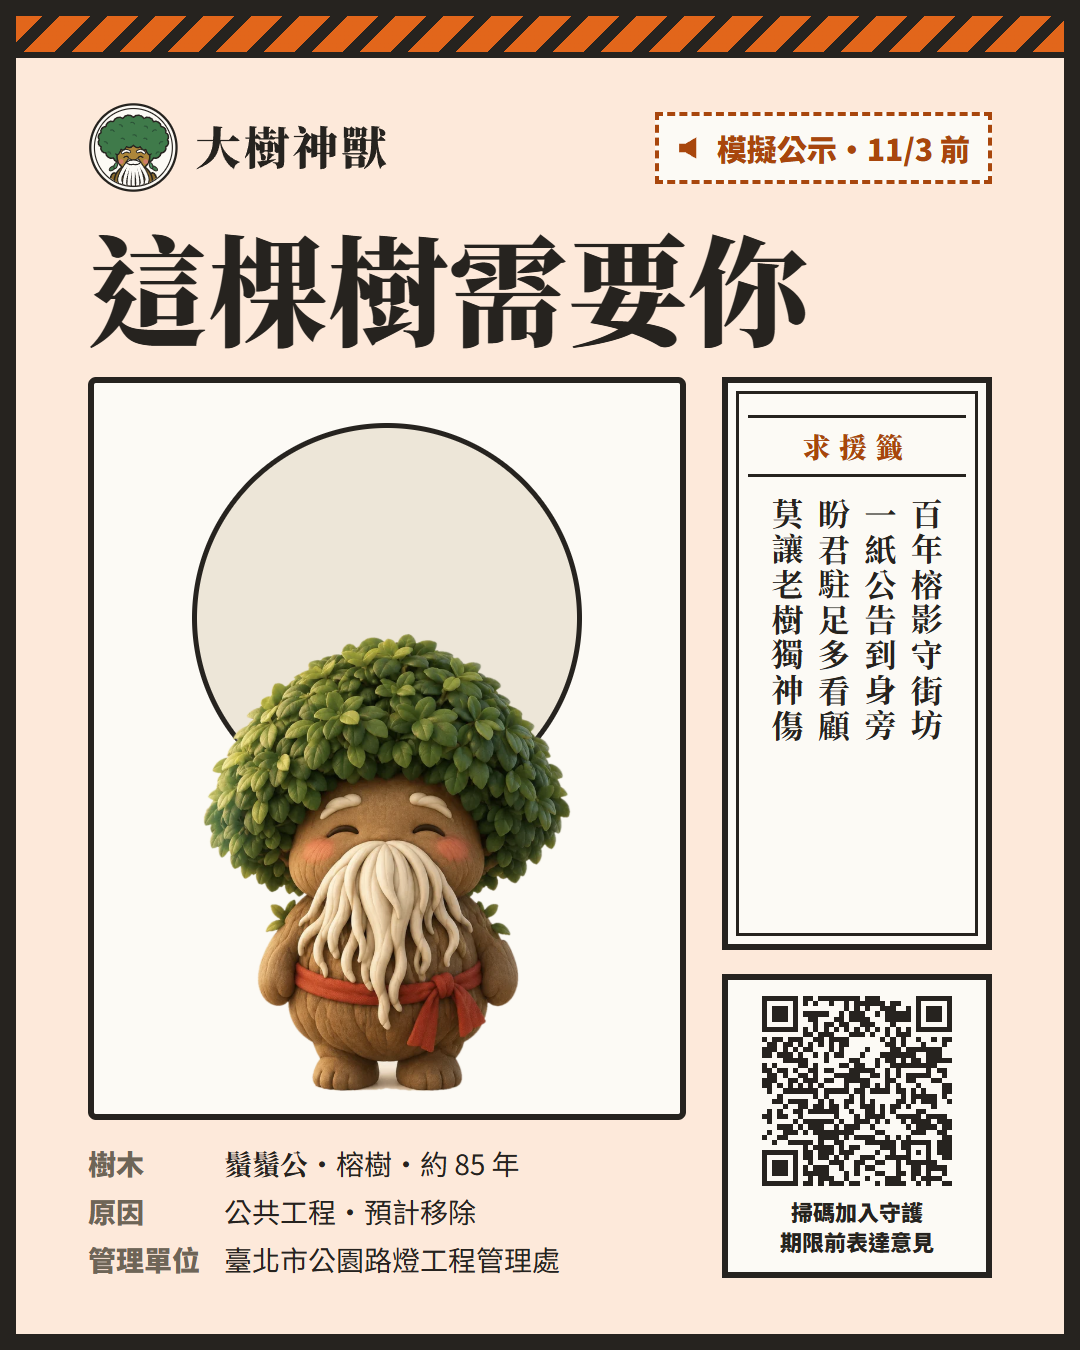
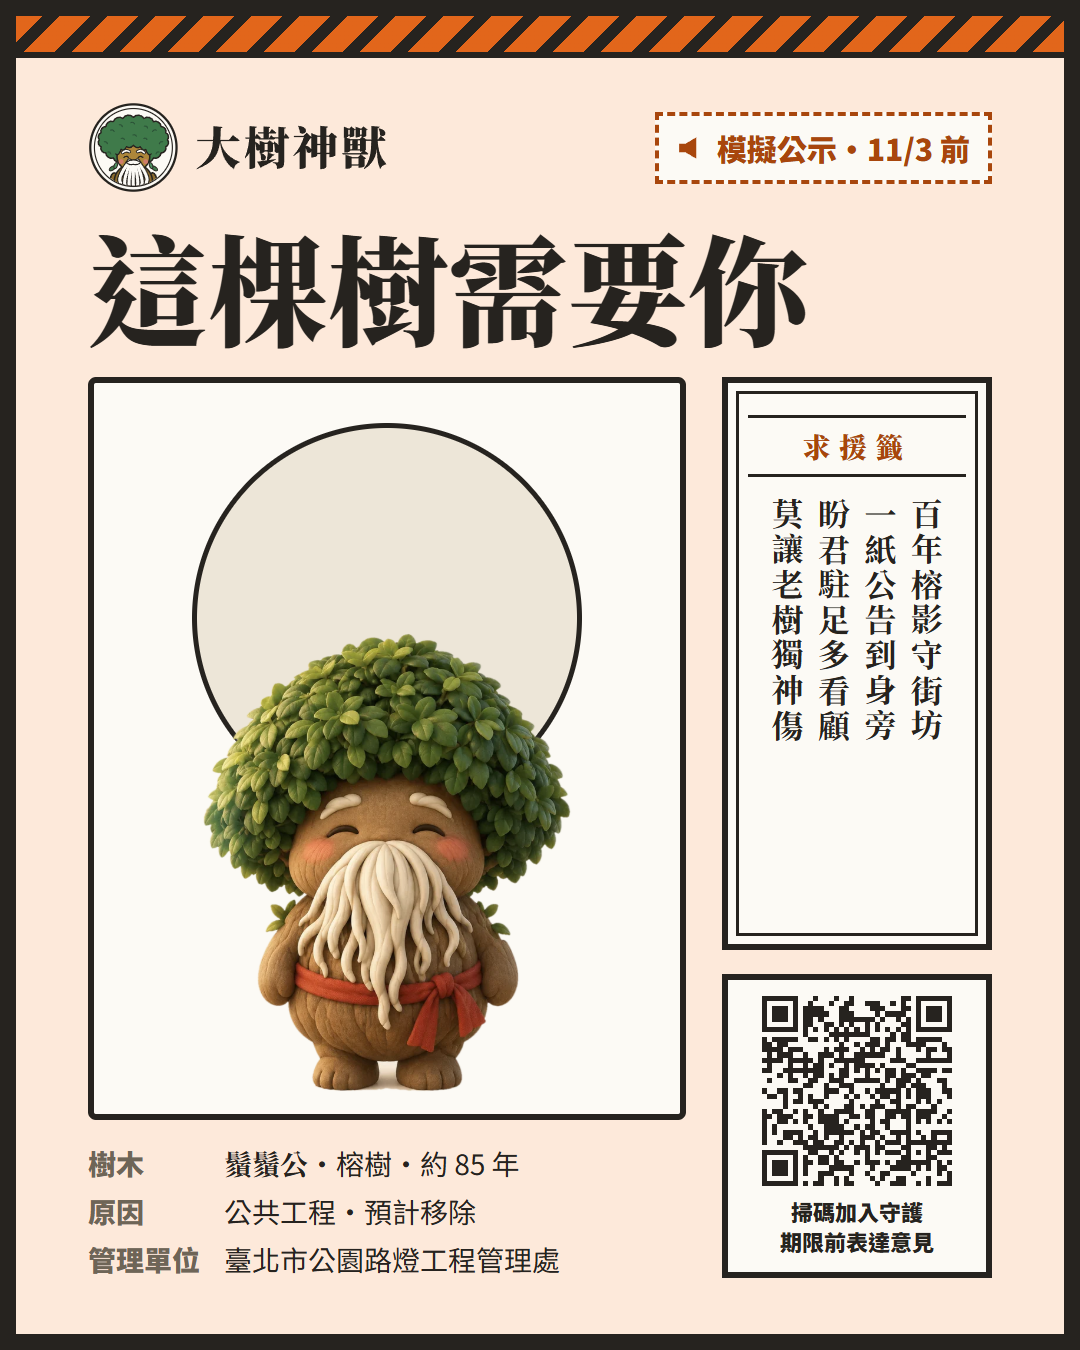
分享連結、OG 預覽、QR code 改用 Cloudflare 網址
原本寫的是 GitHub Pages 的舊網址，改成 https://2026-debugwithpuma.tree-god.workers.dev/ 。
求援籤上的 QR code 重新截圖；Demo 樹牌 QR code（demo/qrcodes.html）也改連新網址。

Changed region(s): [[0.7028, 0.7156, 0.8861, 0.9022]]

diff --git a/about.html b/about.html
@@ -10,9 +10,9 @@
 <meta property="og:type" content="website">
 <meta property="og:title" content="關於大樹神獸｜讓每棵樹都有一群守護祂的鄰居">
 <meta property="og:description" content="你家門口的樹不見了，你多久會發現？AI 方舟計畫在市政 debug 松做的守護行道樹小遊戲。">
-<meta property="og:url" content="https://innerwork-saori.github.io/2026-debugWithPuma/about.html">
+<meta property="og:url" content="https://2026-debugwithpuma.tree-god.workers.dev/about.html">
 <!-- TODO：F9 的 OG 圖（1200×630）做好後換掉 -->
-<meta property="og:image" content="https://innerwork-saori.github.io/2026-debugWithPuma/design-system/assets/logos/app-icons/icon-512.png">
+<meta property="og:image" content="https://2026-debugwithpuma.tree-god.workers.dev/design-system/assets/logos/app-icons/icon-512.png">
 <meta name="twitter:card" content="summary">
 <link rel="manifest" href="manifest.json">
 <link rel="icon" type="image/svg+xml" href="design-system/assets/logos/logo-emblem.svg">

diff --git a/t/JJ0205003001.html b/t/JJ0205003001.html
@@ -10,8 +10,8 @@
 <meta property="og:site_name" content="大樹神獸">
 <meta property="og:title" content="我在守護欒四季｜大樹神獸">
 <meta property="og:description" content="中央藝文公園的臺灣欒樹「欒四季」，已經有 36 位鄰居守護祂。一起來當祂的鄰居！（守護人數為模擬資料）">
-<meta property="og:url" content="https://innerwork-saori.github.io/2026-debugWithPuma/t/JJ0205003001.html">
-<meta property="og:image" content="https://innerwork-saori.github.io/2026-debugWithPuma/design-system/assets/logos/app-icons/icon-512.png">
+<meta property="og:url" content="https://2026-debugwithpuma.tree-god.workers.dev/t/JJ0205003001.html">
+<meta property="og:image" content="https://2026-debugwithpuma.tree-god.workers.dev/design-system/assets/logos/app-icons/icon-512.png">
 <meta property="og:image:width" content="512">
 <meta property="og:image:height" content="512">
 <meta name="twitter:card" content="summary">

diff --git a/t/JS0155100001.html b/t/JS0155100001.html
@@ -10,8 +10,8 @@
 <meta property="og:site_name" content="大樹神獸">
 <meta property="og:title" content="我在守護茄苳仔｜大樹神獸">
 <meta property="og:description" content="華山公園的茄苳「茄苳仔」，已經有 59 位鄰居守護祂。一起來當祂的鄰居！（守護人數為模擬資料）">
-<meta property="og:url" content="https://innerwork-saori.github.io/2026-debugWithPuma/t/JS0155100001.html">
-<meta property="og:image" content="https://innerwork-saori.github.io/2026-debugWithPuma/design-system/assets/logos/app-icons/icon-512.png">
+<meta property="og:url" content="https://2026-debugwithpuma.tree-god.workers.dev/t/JS0155100001.html">
+<meta property="og:image" content="https://2026-debugwithpuma.tree-god.workers.dev/design-system/assets/logos/app-icons/icon-512.png">
 <meta property="og:image:width" content="512">
 <meta property="og:image:height" content="512">
 <meta name="twitter:card" content="summary">

diff --git a/t/JS0155503095.html b/t/JS0155503095.html
@@ -10,8 +10,8 @@
 <meta property="og:site_name" content="大樹神獸">
 <meta property="og:title" content="我在守護雀雀｜大樹神獸">
 <meta property="og:description" content="華山公園的雀榕「雀雀」，已經有 47 位鄰居守護祂。一起來當祂的鄰居！（守護人數為模擬資料）">
-<meta property="og:url" content="https://innerwork-saori.github.io/2026-debugWithPuma/t/JS0155503095.html">
-<meta property="og:image" content="https://innerwork-saori.github.io/2026-debugWithPuma/design-system/assets/logos/app-icons/icon-512.png">
+<meta property="og:url" content="https://2026-debugwithpuma.tree-god.workers.dev/t/JS0155503095.html">
+<meta property="og:image" content="https://2026-debugwithpuma.tree-god.workers.dev/design-system/assets/logos/app-icons/icon-512.png">
 <meta property="og:image:width" content="512">
 <meta property="og:image:height" content="512">
 <meta name="twitter:card" content="summary">

diff --git a/t/JS0155103034-help.html b/t/JS0155103034-help.html
@@ -10,8 +10,8 @@
 <meta property="og:site_name" content="大樹神獸">
 <meta property="og:title" content="這棵樹需要你：鬚鬚公｜大樹神獸">
 <meta property="og:description" content="華山公園的榕樹「鬚鬚公」被公告預計移除（公共工程，模擬公告），11/3 前可以表達意見。">
-<meta property="og:url" content="https://innerwork-saori.github.io/2026-debugWithPuma/t/JS0155103034-help.html">
-<meta property="og:image" content="https://innerwork-saori.github.io/2026-debugWithPuma/assets/share/og-xuxugong-help.png">
+<meta property="og:url" content="https://2026-debugwithpuma.tree-god.workers.dev/t/JS0155103034-help.html">
+<meta property="og:image" content="https://2026-debugwithpuma.tree-god.workers.dev/assets/share/og-xuxugong-help.png">
 <meta property="og:image:width" content="1200">
 <meta property="og:image:height" content="630">
 <meta name="twitter:card" content="summary_large_image">

diff --git a/t/JS0155103034.html b/t/JS0155103034.html
@@ -10,8 +10,8 @@
 <meta property="og:site_name" content="大樹神獸">
 <meta property="og:title" content="我在守護鬚鬚公｜大樹神獸">
 <meta property="og:description" content="華山公園的榕樹「鬚鬚公」，已經有 128 位鄰居守護祂。一起來當祂的鄰居！（守護人數為模擬資料）">
-<meta property="og:url" content="https://innerwork-saori.github.io/2026-debugWithPuma/t/JS0155103034.html">
-<meta property="og:image" content="https://innerwork-saori.github.io/2026-debugWithPuma/assets/share/og-xuxugong-guard.png">
+<meta property="og:url" content="https://2026-debugwithpuma.tree-god.workers.dev/t/JS0155103034.html">
+<meta property="og:image" content="https://2026-debugwithpuma.tree-god.workers.dev/assets/share/og-xuxugong-guard.png">
 <meta property="og:image:width" content="1200">
 <meta property="og:image:height" content="630">
 <meta name="twitter:card" content="summary_large_image">

diff --git a/demo/qrcodes.html b/demo/qrcodes.html
@@ -60,7 +60,7 @@
 <script>
   const GOV = (id) => `http://trees.gov.taipei/show/?treeid=${id}`;
   // 部署後的 App 網址：用手機內建相機掃也能直接打開神獸頁
-  const APP = 'https://innerwork-saori.github.io/2026-debugWithPuma/';
+  const APP = 'https://2026-debugwithpuma.tree-god.workers.dev/';
 
   const DEMO = [
     { id: 'JS0155103034', name: '榕樹', note: '鬚鬚公（Demo 主角，公示中）' },

diff --git a/js/share.js b/js/share.js
@@ -6,7 +6,7 @@ import { esc, DESKTOP, loadJson, pageBarHtml } from './shared.js';
 import { guardiansOf, totalOf } from './store.js';
 import { heroHtml } from './tree.js';
 
-const SITE = 'https://innerwork-saori.github.io/2026-debugWithPuma/';
+const SITE = 'https://2026-debugwithpuma.tree-god.workers.dev/';
 const CARDS = {
   xuxugong: { guard: 'assets/share/xuxugong-guard.png', help: 'assets/share/xuxugong-help.png' },
 };

diff --git a/CLAUDE.md b/CLAUDE.md
@@ -243,10 +243,10 @@
 
 - **作品必須是 PWA**：要有 `manifest.json`、Service Worker、HTTPS 部署，可以加到手機主畫面。細節見 [docs/system-analysis/MVP.md](docs/system-analysis/MVP.md) 的「技術」一節。
 - Service Worker 快取要加版本號，HTML 用網路優先，避免部署後隊友看到舊版。
-- **技術選型（10/22）**：純前端靜態網站，不做後端、不用建置工具。原生 JavaScript ＋ Leaflet，資料放靜態 JSON，使用者操作存 localStorage，部署到 GitHub Pages。完整理由和關鍵畫面的做法見 MVP.md「技術選型」。
+- **技術選型（10/22）**：純前端靜態網站，不做後端、不用建置工具。原生 JavaScript ＋ Leaflet，資料放靜態 JSON，使用者操作存 localStorage，部署到 Cloudflare Workers。完整理由和關鍵畫面的做法見 MVP.md「技術選型」。
 - 分享卡不要用 html2canvas（直排籤詩會排錯），先用固定 PNG。
 - **本機執行**：在 repo 根目錄跑 `python -m http.server 8000`，打開 http://localhost:8000/ 。不能直接雙擊 index.html（讀不到 JSON）。
-- **部署**：GitHub Pages 從 `main` 分支根目錄發布，push 後約 1～2 分鐘上線：https://innerwork-saori.github.io/2026-debugWithPuma/ 。手機測相機、加到主畫面都要用這個 HTTPS 網址。
+- **部署**：Cloudflare Workers，設定在 [wrangler.jsonc](wrangler.jsonc)，網址 https://2026-debugwithpuma.tree-god.workers.dev/ 。手機測相機、加到主畫面都用這個 HTTPS 網址；分享連結、QR code、OG 標籤也一律用它，不要再用 GitHub Pages 的舊網址。
 - **PWA**：[manifest.json](manifest.json)、[sw.js](sw.js)，圖示用 `design-system/assets/logos/app-icons/`。sw.js 對自己網站的檔案是網路優先，改程式不用動它；**新增 JS、CSS、資料檔時，把路徑加進 sw.js 的 `PRECACHE`，並把 `VERSION` 加一號**。
 - **新增畫面**：在 `js/` 開一個檔案匯出 `render(el, { tree, trees })`，到 [js/map.js](js/map.js) 的 `PAGES` 註冊表加一行；樣式放自己的 `css/畫面名.css`，class 用自己的前綴。每個畫面一個檔案，兩人同時開發才不會衝突。
 - **分工（10/23，依 PRD 的 P0 功能 F1–F9）**：Saori 負責 F1 地圖、F2 樹木頁、F3 守護它、F4 掃描、F5 回報（[js/report.js](js/report.js)）、路由和 PWA，以及 F6 社區佈告欄、F7 守護圖鑑（F6、F7 待兩人確認）、F9 分享卡與 OG 預覽圖（10/24 從 Qmoa 改由 Saori 負責）；Qmoa 負責 F8 異動警報（[js/notices.js](js/notices.js)）。完整的功能、網址、檔案和進度表見 [協作新手備忘.md](docs/team-collaboration/協作新手備忘.md) 的「團隊協作約定」。要改對方的檔案（尤其 map.js、store.js）先在 Discord 講一聲。

diff --git a/docs/demo-video/Demo影片企劃.md b/docs/demo-video/Demo影片企劃.md
@@ -114,4 +114,4 @@ Day 2 錄影時照這個順序點，不要即興：
 2. **上傳到誰的 YouTube 帳號？公開設定用「公開」還是「不公開（有連結的人才能看）」？** 要看主辦審核和票選的需求，可以在 #市政debug松服務台 問。
 3. **字幕用哪一種？** 畫面字幕（預設）或 YouTube 的 `.srt`，二選一。
 4. **要不要配音、加音樂？** 先只放字幕最保險；音樂上傳後從 YouTube 音效庫加。
-5. **片尾 QR code**：作品網址已經有了（`https://innerwork-saori.github.io/2026-debugWithPuma/`），QR code 還沒產生，目前是佔位框加網址文字。
+5. **片尾 QR code**：作品網址已經有了（`https://2026-debugwithpuma.tree-god.workers.dev/`），QR code 還沒產生，目前是佔位框加網址文字。
